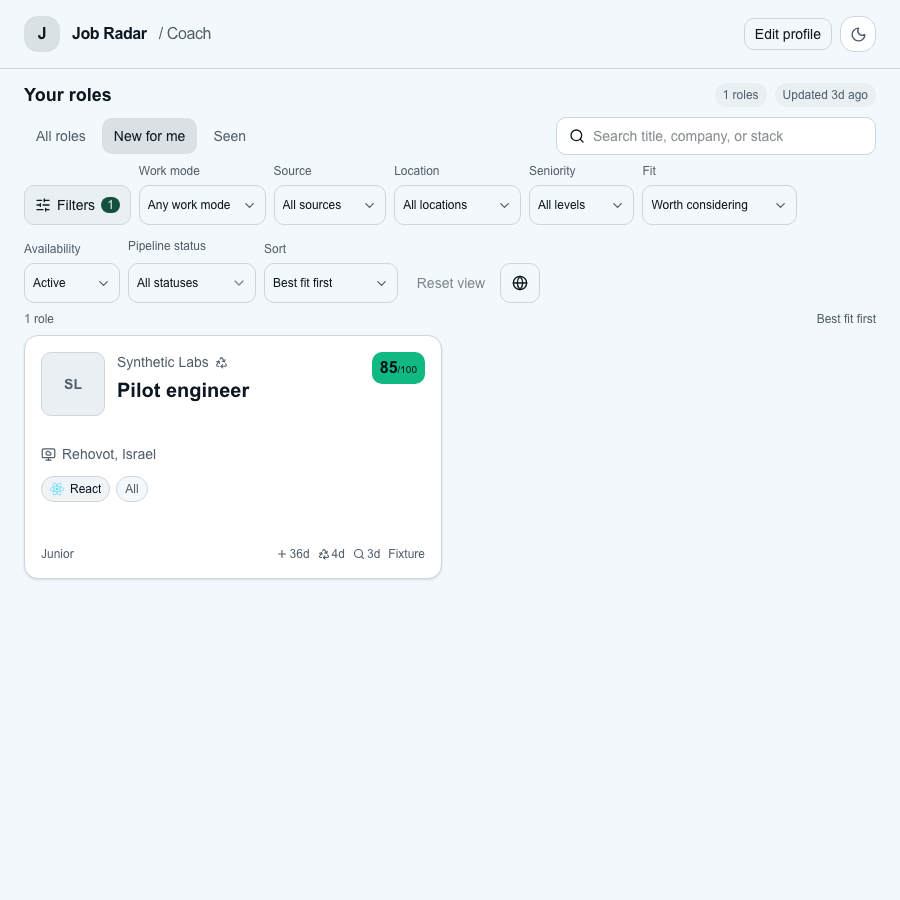
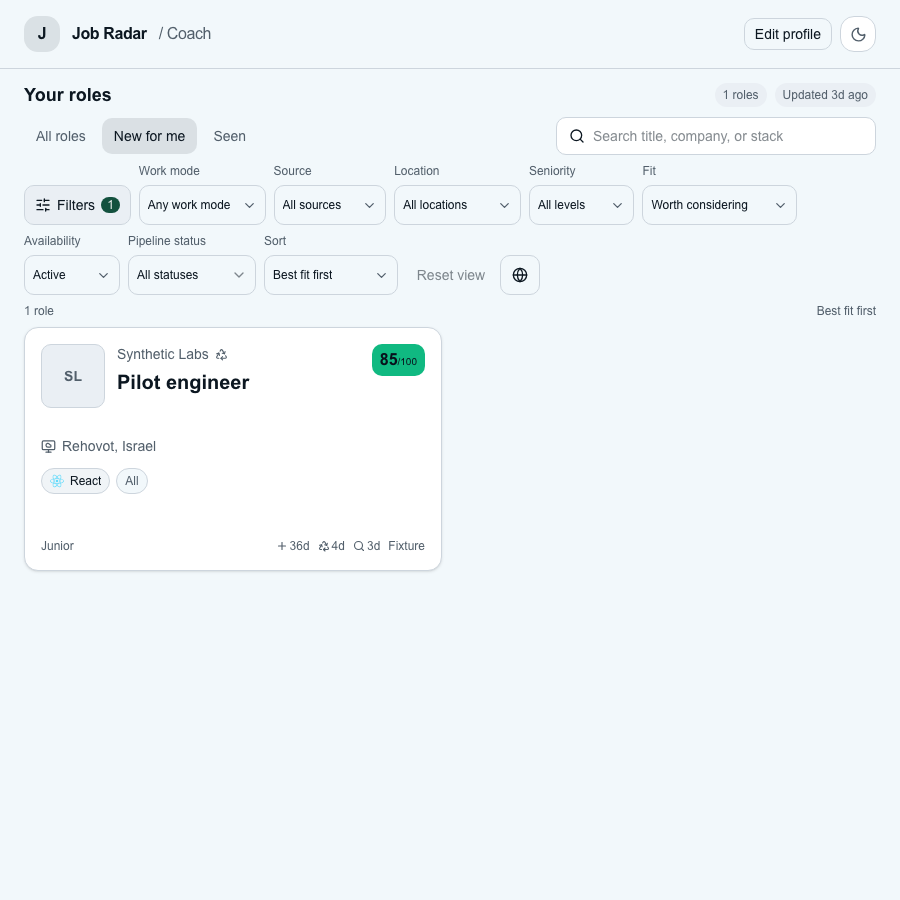
fix(ui): align pipeline filter label with sibling labels

diff --git a/ui/components/pipeline-status-filter.tsx b/ui/components/pipeline-status-filter.tsx
@@ -19,7 +19,7 @@ export function PipelineStatusFilter({ value, onChange }: {
     details.querySelector("summary")?.focus();
   }
   return <div className="min-w-0">
-    <span className="cursor-default text-xs font-medium text-muted-foreground">Pipeline status</span>
+    <span className="block cursor-default text-xs font-medium text-muted-foreground">Pipeline status</span>
     <details
       ref={detailsRef}
       className="relative mt-1.5 min-w-0"

diff --git a/ui/browser-tests/evidence/filter-toolbar/README.md b/ui/browser-tests/evidence/filter-toolbar/README.md
@@ -23,3 +23,15 @@ Screenshots were visually inspected. This is local synthetic UI evidence; hosted
 | 1100 | [Toolbar](toolbar-1100.png) |
 | 900 | [Toolbar](toolbar-900.png) |
 | 390 | [Toolbar](toolbar-390.png), [drawer](toolbar-390-drawer.png) |
+
+## PR #432 fix round 1
+
+At review head `bcf5408`, the new same-row label-top assertion failed at 1100px
+(pipeline 169px, sibling labels 171px) and 900px (239px versus 241px). Making the
+pipeline label block-level passes that assertion at both widths. The full capped
+browser suite passes all five widths, including collapse persistence, long labels,
+Reset, mobile focus return, overflow and page-error checks. The refreshed 1100/900
+screenshots were visually inspected. Scoped ESLint and TypeScript also pass.
+
+The optional Reset behavior change is deferred: `isDefaultBoardPreferences` also
+controls persistence, so ignoring collapse there would discard saved collapse state.
